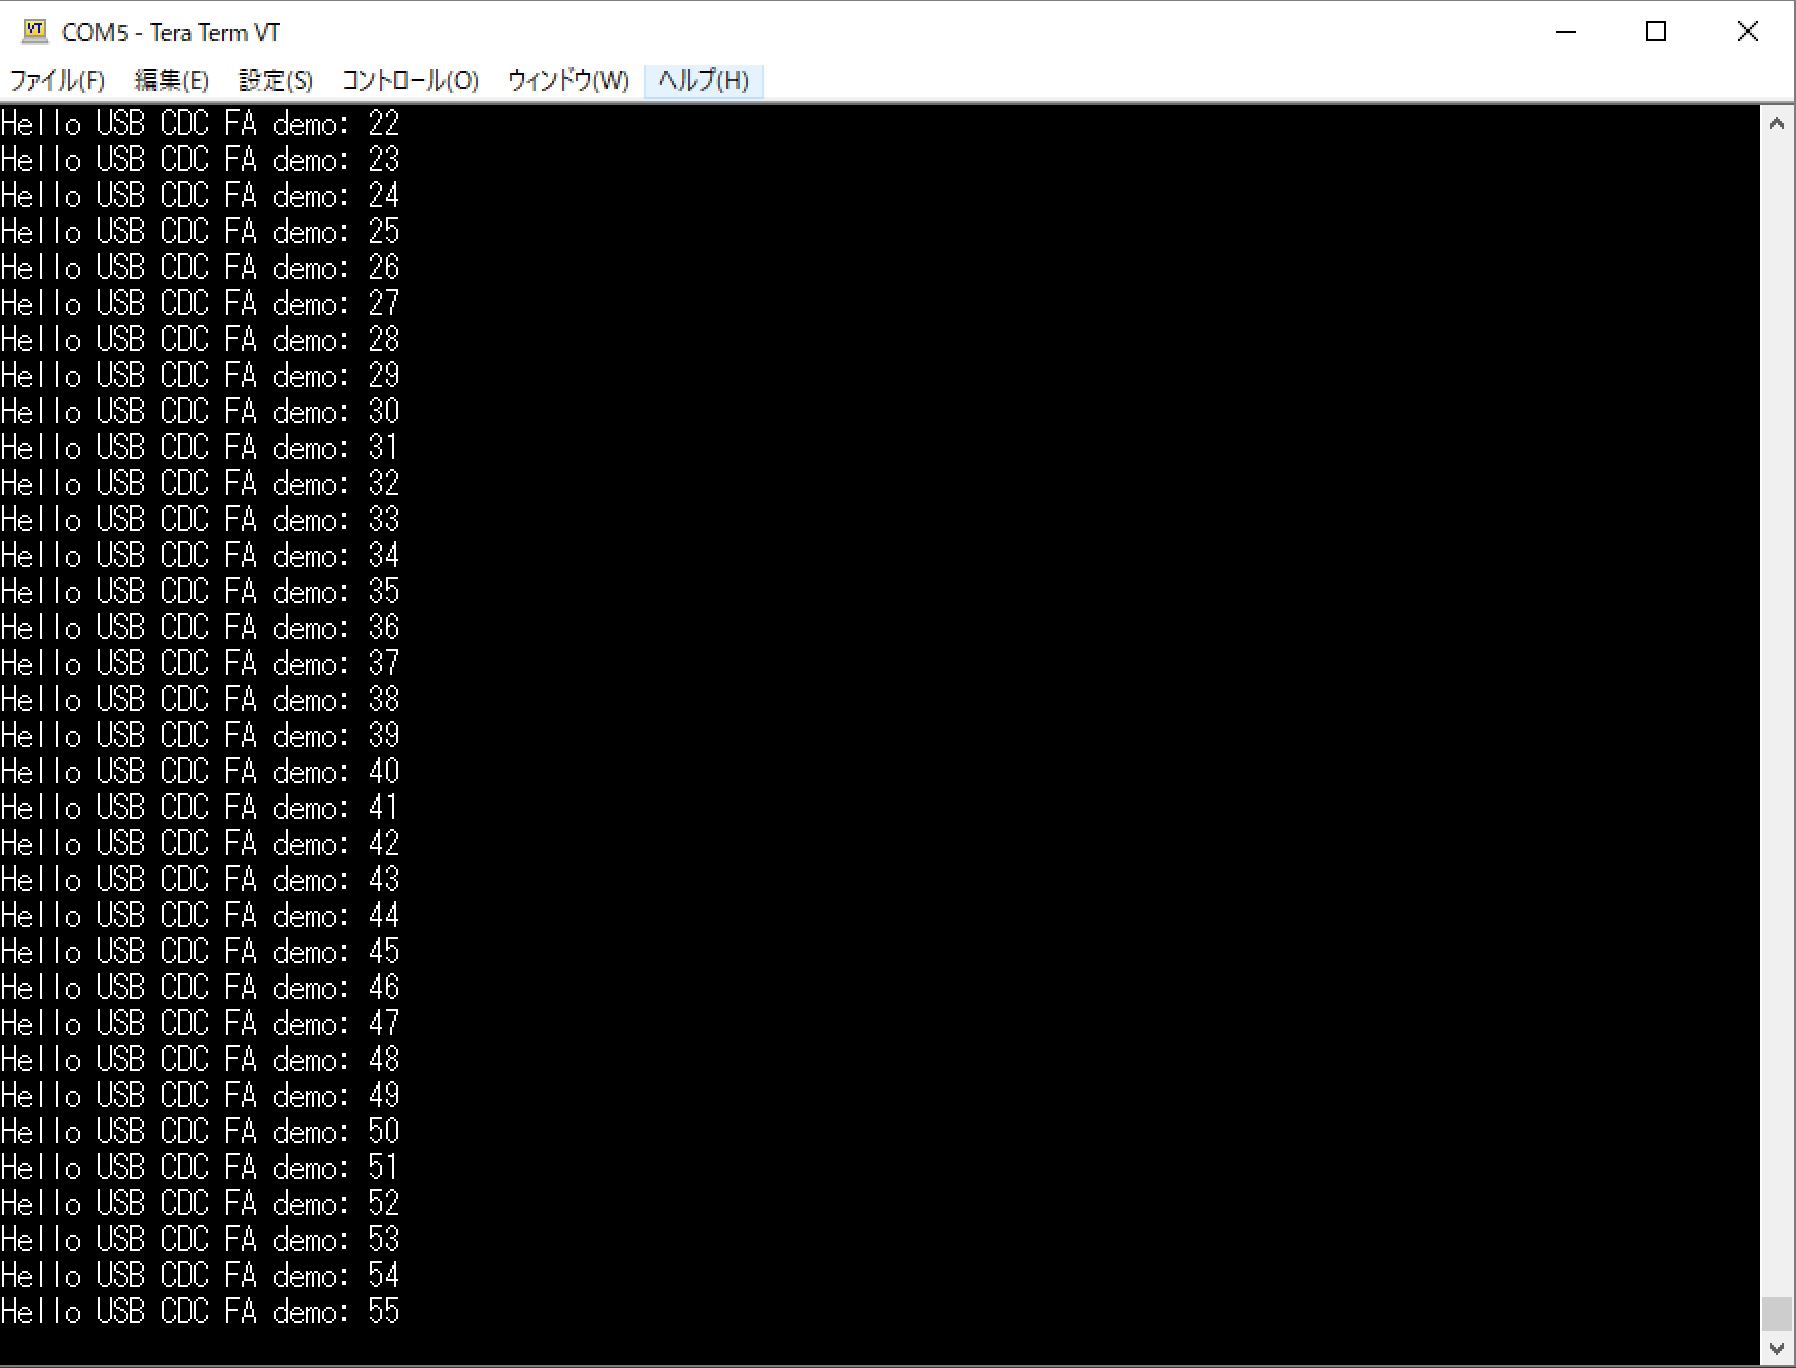
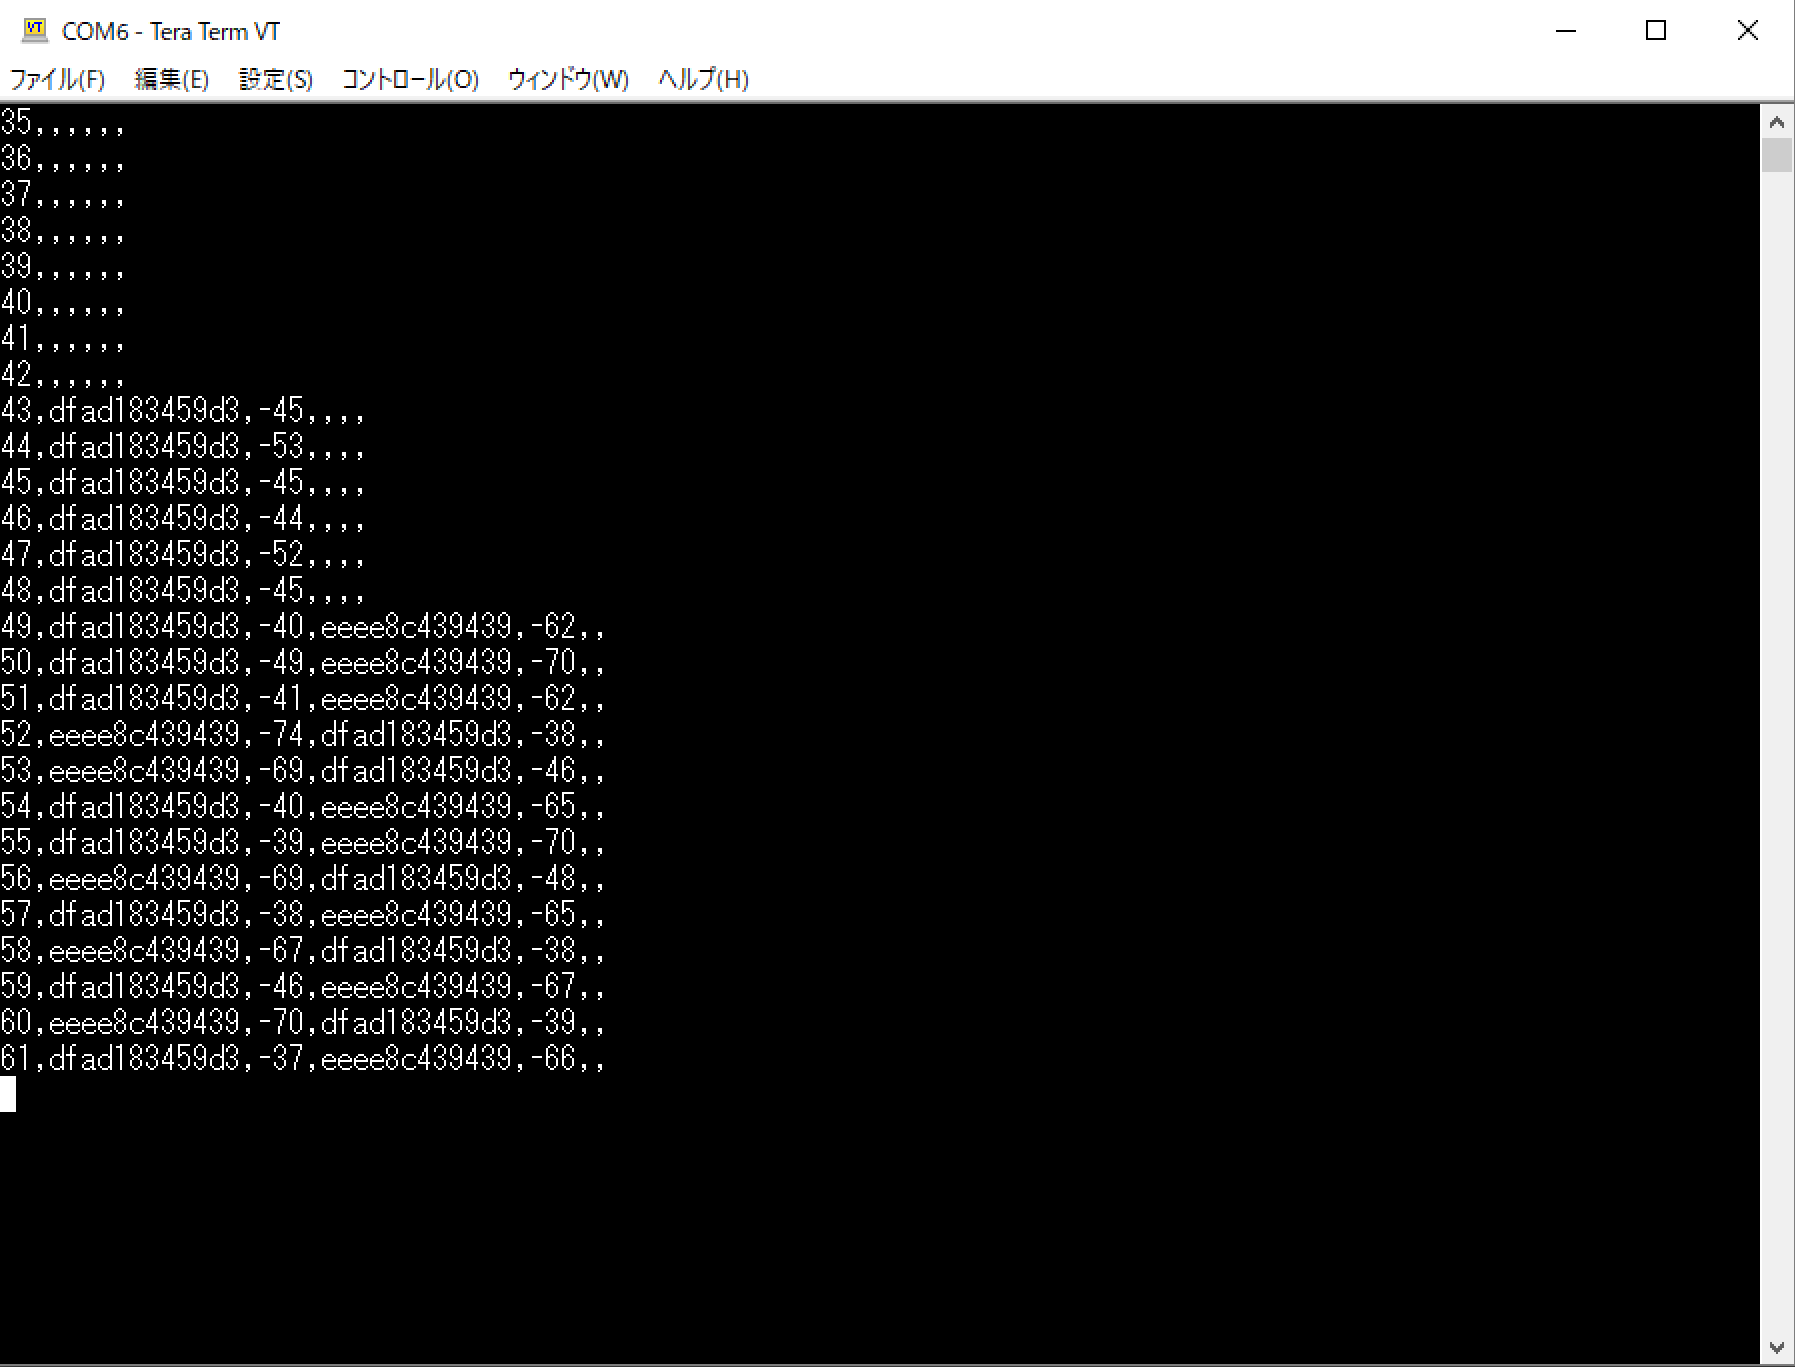
#145 関連のドキュメントを整理
・動作確認準備、ログ出力形式についての記述を追加

Changed region(s): [[0.0, 0.0, 0.4368, 0.9832], [0.9671, 0.0, 1.0, 1.0]]

diff --git a/nRF5_SDK_v15.2.0/examples/research/README.md b/nRF5_SDK_v15.2.0/examples/research/README.md
@@ -2,9 +2,9 @@
 
 ## ble_peripheral_logger_proj
 
-Nordicの[USB CDCサービスのサンプルアプリ](https://infocenter.nordicsemi.com/index.jsp?topic=%2Fcom.nordic.infocenter.sdk5.v15.2.0%2Fusbd_cdc_acm_example.html&cp=4_0_0_4_5_50_3)を改修し、Dongle側で収集した各種ログを、PCのUSBポート経由で送信できるアプリケーションに転化させています。
+Nordicの[USB CDCサービスのサンプルアプリ](https://infocenter.nordicsemi.com/index.jsp?topic=%2Fcom.nordic.infocenter.sdk5.v15.2.0%2Fusbd_cdc_acm_example.html&cp=4_0_0_4_5_50_3)を改修し、Dongle側で収集したRSSIログを、USBポートを経由しPCのコンソールアプリに送信・表示できるアプリケーションに転化させています。
 
-<b>[アプリケーション転用手順はこちら](buildFromSample.md)</b>
+最大３台までのBLEデバイスについて、１秒間隔で各々のデバイスのRSSI値をCSV形式で出力します。
 
 ### 動作確認環境
 
@@ -13,30 +13,52 @@ Nordicの[USB CDCサービスのサンプルアプリ](https://infocenter.nordic
 - Java SE Runtime Environment（1.8.0_131）
 - nRF52840 Dongle（PCA10059）
 
-### 動作確認準備
+### nRF52840 Dongleの準備
 
-NetBeansプロジェクトですので、NetBeansでプロジェクトを開き、ビルド＆書込みを行います。<br>
+NetBeansプロジェクトですので、NetBeansでプロジェクトを開き、ビルドを行います。<br>
 （NetBeansに関しては、[こちらのドキュメント](../../../Development/nRF52840/NETBEANS.md)をご参照）
 
-Windows 10環境での確認用としては、シリアル通信用のコンソールアプリ（Tera Term 等）を別途インストールしておきます。<br>
-macOS環境の場合は、システムに同梱のターミナルアプリ上で、screenコマンドを実行すれば確認できます。
+NetBeansによりビルドされたHEXファイルは、サブディレクトリー [ble_peripheral_logger_firmwares](ble_peripheral_logger_firmwares) に格納しております。<br>
+こちらの２本のHEXファイルを、下記手順によりnRF52840 Dongleに書込みます。<br>
+　<b>[nRF52840 Dongleプログラミング手順](https://github.com/diverta/onecard-fido/blob/master/Development/nRF52840/NRFCONNECTINST.md)</b>
+
+### BLEデバイスの準備
+
+Nordicの[BLE UARTサービスのサンプルアプリ](https://infocenter.nordicsemi.com/index.jsp?topic=%2Fcom.nordic.infocenter.sdk5.v15.2.0%2Fble_sdk_app_nus_c.html&cp=4_0_0_4_1_0_7)を導入したBLEペリフェラルデバイスについて、RSSI値を測定します。
+
+従いまして、別途 nRF52840 DK、または nRF52832 DK をご用意いただき、前述サンプルアプリを導入願います。<br>
+こちらでも、[NetBeansプロジェクト](https://github.com/diverta/onecard-fido/tree/master/nRF5_SDK_v15.2.0/examples/ble_peripheral)を、以下の通り用意しております。
+- nRF52832 DK用 - [ble_app_uart_test](../examples/ble_peripheral/ble_app_uart_test)
+- nRF52840 DK用 - [ble_app_uart_test_nRF52840](../examples/ble_peripheral/ble_app_uart_test_nRF52840)
 
 ### 動作確認方法
 
-まず、nRF52840 Dongleを、PCのUSBポートに装着します。<br>
+まず、Windows 10環境での確認用としては、シリアル通信用のコンソールアプリ（Tera Term 等）を別途インストールしておきます。<br>
+macOS環境の場合は、システムに同梱のターミナルアプリ上で、screenコマンドを実行すれば確認できます。
+
+次に、nRF52840 Dongleを、PCのUSBポートに装着します。<br>
 その後、シリアル通信用のコンソールアプリ（Tera Term や screenコマンド）を起動します。
 
 コンソールアプリの接続先としましては、nRF52840 Dongleの仮想COMポートを接続するようにしてください。<br>
 接続ボーレートは 115200 になります。
 
+#### ログ出力形式
+
+RSSI値のログデータは、以下のCSV形式で出力されます。<br>
+```
+<秒通番>,<デバイス1のBluetoothアドレス>,<デバイス1のRSSI値>,<デバイス2のBluetoothアドレス>,<デバイス2のRSSI値>,<デバイス3のBluetoothアドレス>,<デバイス3のRSSI値>
+```
+デバイスが検出されない場合は、ブランクのCSVが表示されます。
+
 #### Windows環境での確認例
-Tera Term Version 4.95 を使用しました。<br>
-`COM5`というのが、仮想COMポート名になります。
+
+下図は、Tera Term Version 4.95 を使用して確認した例になります。<br>
+`COM5`というのが、仮想COMポート名です。
 
 <img src="assets/0001.png" width="640">
 
 #### macOS環境での確認例
-screenコマンドを使用しました。<br>
-`/dev/tty.usbmodem1411`というのが、仮想COMポート名になります。
+下図は、screenコマンドを使用して確認した例になります。<br>
+`/dev/tty.usbmodem1411`というのが、仮想COMポート名です。
 
 <img src="assets/0002.png" width="640">
